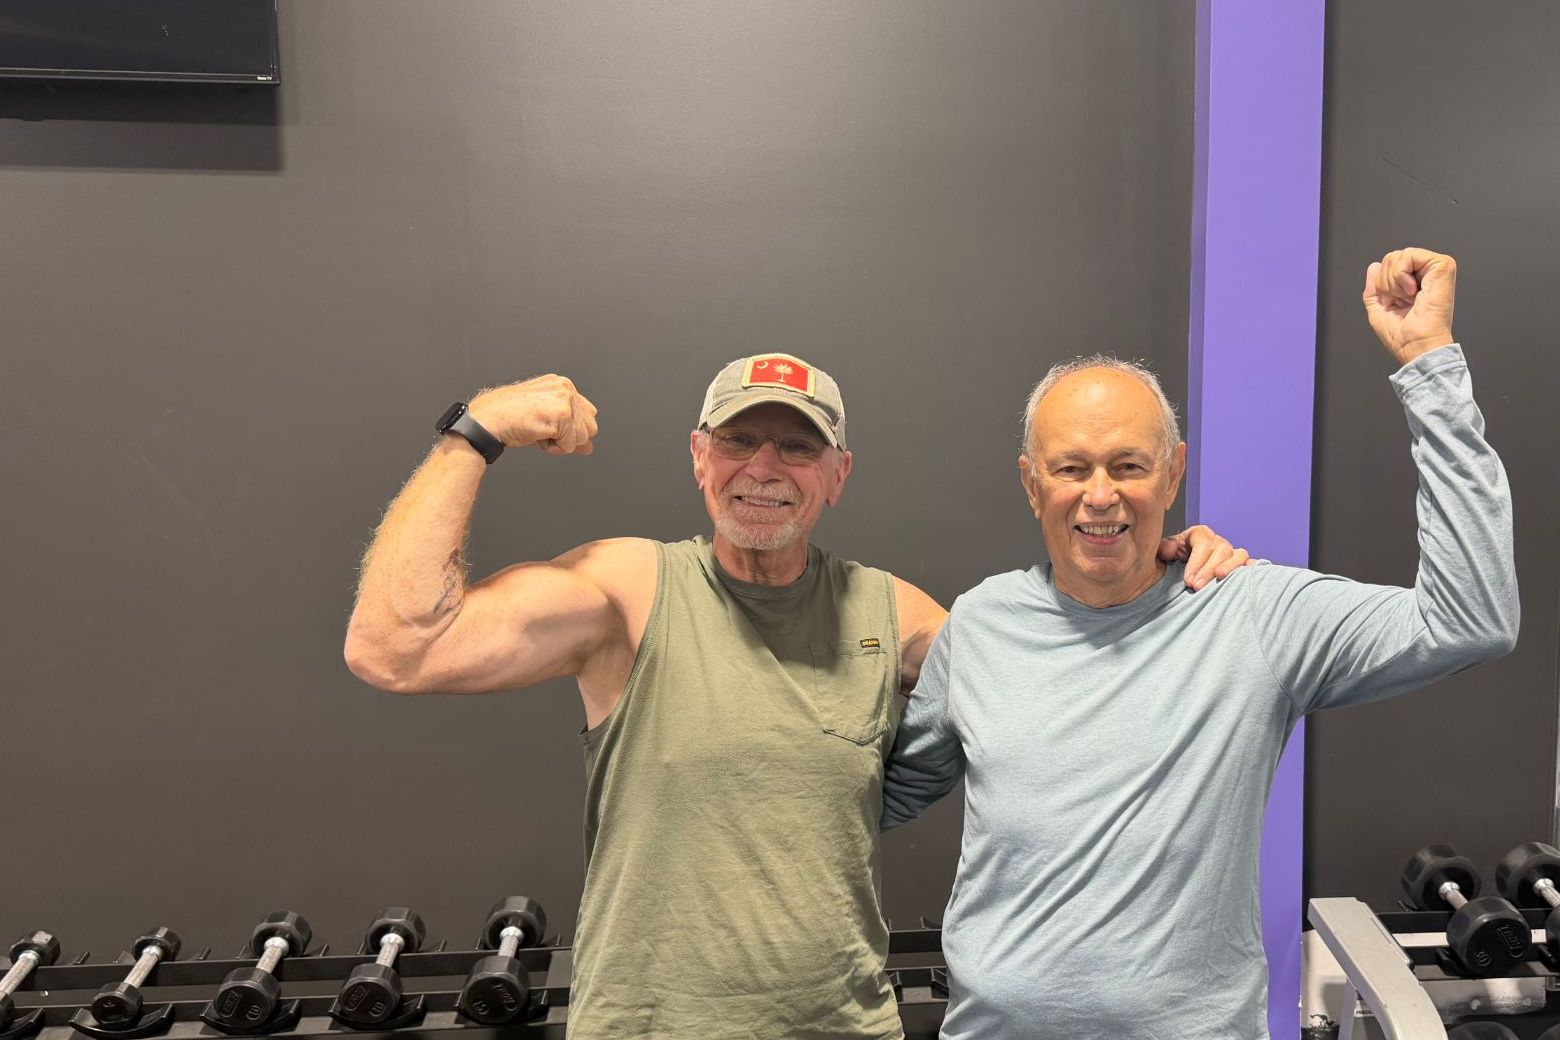
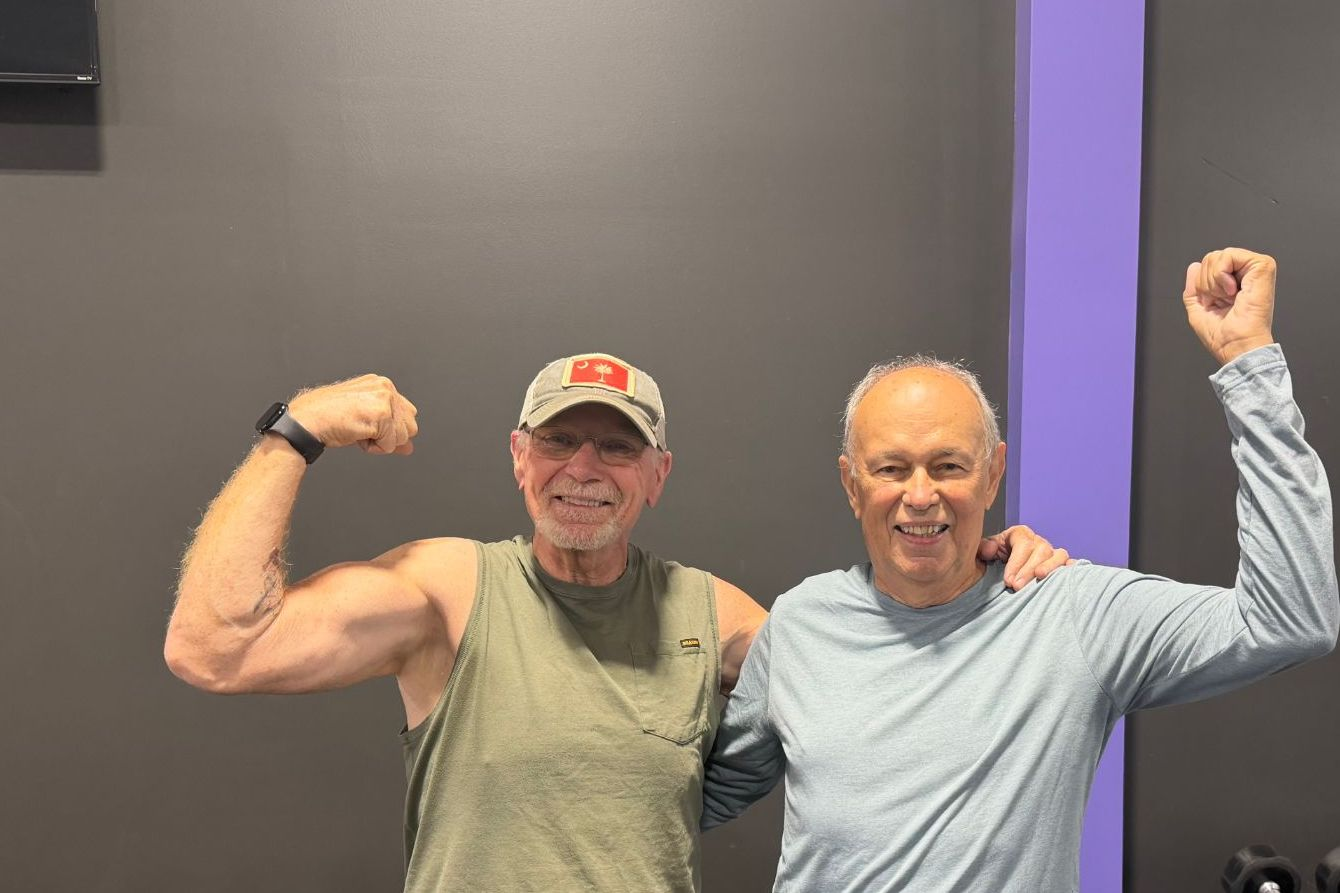
Center the two-members photo and add a third In the Gym tile
- Re-crop the two-members-flexing shot so the pair is centered in frame.
- Add a small-group training photo as a third action tile; the strip now
  shows three evenly-sized tiles across on desktop, stacking on mobile.

Claude-Session: https://claude.ai/code/session_01WzVEvCXWgQGGY8QxG5DLmD

diff --git a/index.html b/index.html
@@ -131,7 +131,7 @@
   .rcard img{display:block;width:100%;aspect-ratio:3/4;object-fit:cover;}
   .rhint{display:none;}
   /* action strip — wide in-the-gym photos */
-  .astrip{display:grid;grid-template-columns:repeat(auto-fit,minmax(340px,1fr));gap:18px;max-width:1000px;margin:34px auto 0;}
+  .astrip{display:grid;grid-template-columns:repeat(auto-fit,minmax(290px,1fr));gap:18px;max-width:1060px;margin:34px auto 0;}
   .atile{margin:0;border-radius:16px;overflow:hidden;border:1px solid rgba(14,154,163,.20);box-shadow:0 14px 40px rgba(20,55,65,.16);}
   .atile img{display:block;width:100%;aspect-ratio:3/2;object-fit:cover;}
   /* CTA band — background photo with overlay + white text */
@@ -264,8 +264,9 @@
     <div class="divider"><i class="ti ti-barbell"></i></div>
     <!-- Add a wide action photo: drop ageless-action-N.jpg in /assets/ageless and copy a tile below. -->
     <div class="astrip">
-      <figure class="atile"><img src="/assets/ageless/ageless-action-2.jpg" alt="Members celebrating their strength at Ageless Fitness" loading="lazy"></figure>
-      <figure class="atile"><img src="/assets/ageless/ageless-action-1.jpg" alt="Member training at Ageless Fitness" loading="lazy"></figure>
+      <figure class="atile"><img src="/assets/ageless/ageless-action-2.jpg" alt="Two members celebrating their strength at Ageless Fitness" loading="lazy"></figure>
+      <figure class="atile"><img src="/assets/ageless/ageless-action-3.jpg" alt="Members in a small-group training session at Ageless Fitness" loading="lazy"></figure>
+      <figure class="atile"><img src="/assets/ageless/ageless-action-1.jpg" alt="Member rowing at Ageless Fitness" loading="lazy"></figure>
     </div>
   </div>
 </section>
